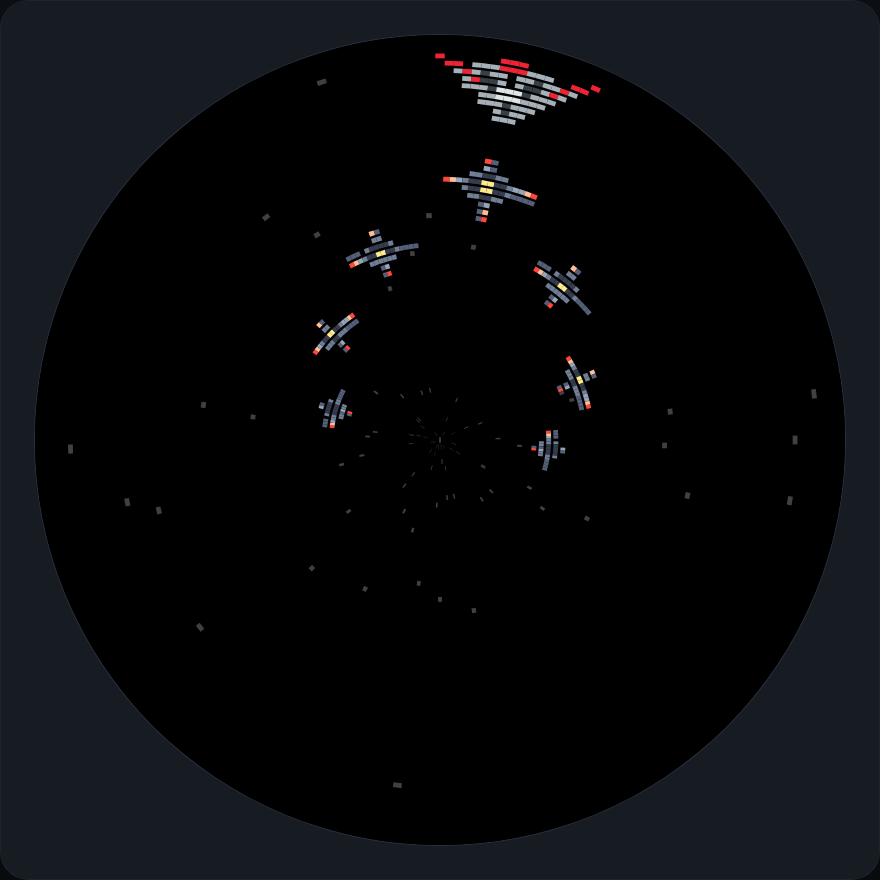
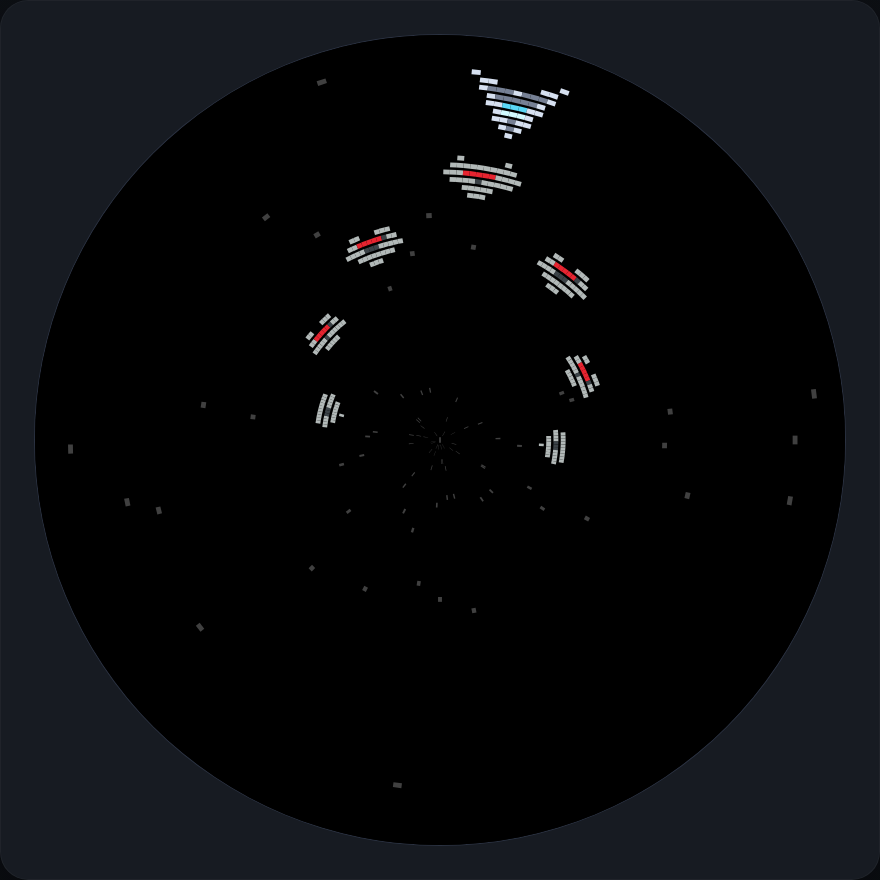
Tutorial: a ship that leans into its turns replaces the drone
The spinning drone was round, and round shapes hide a frame change on the
polar display. Use the game's ship instead, redrawn as an arrowhead in three
frames (level, turned left, turned right). The game picks the frame from the
steering, which is a better example of a frame showing state than cycling them
on a timer; the timing explanation moves to the pools chapter, where the
enemies animate. The enemy goes back to its original saucer art.

Frames example: the three ships, labelled, with the level one in the middle and
gaps between them. make_ship_art.py draws the strip; the strip diagram, tests
and every screenshot that shows the ship follow.

Claude-Session: https://claude.ai/code/session_01Am6eVYV27DcbeE9tF3fxdW

diff --git a/tools/vs2_doc_images/make_ship_art.py b/tools/vs2_doc_images/make_ship_art.py
@@ -1,0 +1,86 @@
+"""Draws games/demos/tutorial_game/images/ship.png: the tutorial game's ship.
+
+    python3 make_ship_art.py
+
+Three 18x18 frames of an arrowhead ship, nose toward the centre of the disc:
+frame 0 flies level, frame 1 is turned toward the sprite's left and frame 2
+toward its right. The game picks the frame from the steering, so the ship leans
+into a turn. Needs Pillow.
+"""
+from math import cos, radians, sin
+from pathlib import Path
+
+from PIL import Image
+
+SIZE = 18
+CENTRE = (SIZE - 1) / 2
+TURN = 24                      # degrees a banked frame is turned
+FRAMES = (0, -TURN, TURN)      # level, toward the left, toward the right
+
+HULL = (118, 128, 148)
+EDGE = (214, 224, 240)
+DARK = (70, 78, 96)
+CANOPY = (90, 215, 245)
+CANOPY_HOT = (210, 250, 255)
+FLAME = (255, 140, 30)
+FLAME_HOT = (255, 225, 120)
+
+# The ship with its nose up, around the origin; y grows downward as in an image.
+HULL_SHAPE = ((0, -7.5), (5.5, 6.5), (0, 3.5), (-5.5, 6.5))
+
+
+def inside(polygon, x, y):
+    """Even-odd point-in-polygon test."""
+    result = False
+    for i, (x1, y1) in enumerate(polygon):
+        x2, y2 = polygon[(i + 1) % len(polygon)]
+        if (y1 > y) != (y2 > y) and x < (x2 - x1) * (y - y1) / (y2 - y1) + x1:
+            result = not result
+    return result
+
+
+def to_local(px, py, angle):
+    """Where image pixel (px, py) lies in the ship's own, unturned frame."""
+    dx, dy = px - CENTRE, py - CENTRE
+    a = radians(angle)
+    return dx * cos(a) + dy * sin(a), -dx * sin(a) + dy * cos(a)
+
+
+def frame(angle):
+    img = Image.new("RGBA", (SIZE, SIZE), (0, 0, 0, 0))
+    px = img.load()
+    solid = set()
+    for y in range(SIZE):
+        for x in range(SIZE):
+            hits = sum(
+                inside(HULL_SHAPE, *to_local(x + sx, y + sy, angle))
+                for sx in (0.17, 0.5, 0.83) for sy in (0.17, 0.5, 0.83))
+            if hits >= 5:
+                solid.add((x, y))
+    for x, y in solid:
+        lx, ly = to_local(x + 0.5, y + 0.5, angle)
+        edge = any((x + dx, y + dy) not in solid
+                   for dx, dy in ((1, 0), (-1, 0), (0, 1), (0, -1)))
+        if (lx / 1.5) ** 2 + ((ly + 0.5) / 2.3) ** 2 <= 1:
+            colour = CANOPY_HOT if ly < 0 else CANOPY
+        elif abs(lx) < 1.6 and ly > 3.6:
+            colour = FLAME_HOT if ly < 5 else FLAME
+        elif edge:
+            colour = EDGE
+        else:
+            colour = HULL if abs(lx) < 3.2 else DARK
+        px[x, y] = colour + (255,)
+    return img
+
+
+def main():
+    strip = Image.new("RGBA", (SIZE * len(FRAMES), SIZE), (0, 0, 0, 0))
+    for index, angle in enumerate(FRAMES):
+        strip.paste(frame(angle), (index * SIZE, 0))
+    out = Path(__file__).resolve().parents[2] / "games/demos/tutorial_game/images/ship.png"
+    strip.save(out)
+    print("wrote", out)
+
+
+if __name__ == "__main__":
+    main()

diff --git a/tools/vs2_doc_images/examples/frames.py b/tools/vs2_doc_images/examples/frames.py
@@ -1,19 +1,22 @@
-"""One sprite per frame of the tutorial game's drone, side by side on the bottom
-of the disc. Increasing x runs right to left there, so the frames are laid out at
-decreasing x. The spacing leaves a gap between them."""
+"""One sprite per frame of the tutorial game's ship (level, turned left, turned
+right), side by side on the bottom of the disc. The level ship is in the middle.
+Increasing x runs right to left there, so the left-turned frame 1 is the one at
+the larger x. The spacing leaves a gap between neighbours."""
 
 import vs2
 
-WIDTH = 16           # columns in one frame of the strip
-SPACING = 22         # columns between neighbours, so there is a gap
+WIDTH = 18           # columns in one frame of the strip
+SPACING = 26         # columns between neighbours, so there is a gap
+LEVEL, LEFT, RIGHT = range(3)
 
 
 class Frames(vs2.Scene):
     def build(self):
         world = self.layer("world", projection=vs2.TUNNEL)
-        for frame in range(4):
-            x = (int(1.5 * SPACING) - WIDTH // 2 - frame * SPACING) % vs2.display.width
-            world.sprite("enemy.png", x=x, y=2, frame=frame)
+        middle = -WIDTH // 2         # centres the level ship on x = 0, the bottom
+        for frame, offset in ((LEVEL, 0), (LEFT, SPACING), (RIGHT, -SPACING)):
+            x = (middle + offset) % vs2.display.width
+            world.sprite("ship.png", x=x, y=2, frame=frame)
 
 
 def main():

diff --git a/tests/test_tutorial_game.py b/tests/test_tutorial_game.py
@@ -37,7 +37,7 @@ from ventilastation.director import configure_runtime, director, reset_runtime, 
 
 # name: (frame width, height, frames, glyphs), as in the game's __images__.yaml
 STRIPS = {
-    "ship.png": (18, 13, 4, None),
+    "ship.png": (18, 18, 3, None),
     "enemy.png": (16, 16, 6, None),
     "trench.png": (16, 16, 8, None),
     "numerals.png": (4, 5, 12, "0123456789 *"),
@@ -116,6 +116,19 @@ class TutorialGameTests(unittest.TestCase):
         game.ship.x = 0
         self.step(director.JOY_LEFT)
         self.assertEqual(game.ship.x, 255)
+
+    def test_the_ship_leans_into_a_turn(self):
+        from games.demos.tutorial_game.code.tutorial_game import (
+            LEVEL, TURN_LEFT, TURN_RIGHT)
+
+        game = self.start_game()
+        self.assertEqual(game.ship.frame, LEVEL)
+        self.step(director.JOY_LEFT)
+        self.assertEqual(game.ship.frame, TURN_LEFT)
+        self.step(director.JOY_RIGHT)
+        self.assertEqual(game.ship.frame, TURN_RIGHT)
+        self.step(0)
+        self.assertEqual(game.ship.frame, LEVEL)
 
     def test_the_trench_wall_scrolls_and_wraps_seamlessly(self):
         game = self.start_game()

diff --git a/games/demos/tutorial_game/code/tutorial_game.py b/games/demos/tutorial_game/code/tutorial_game.py
@@ -10,6 +10,7 @@ from urandom import randrange
 import vs2
 from vs2.controls import *
 
+LEVEL, TURN_LEFT, TURN_RIGHT = range(3)      # the frames of ship.png
 ENEMY_SPEED = 0.5    # depth units per tick, toward the ship
 ENEMY_START = 160    # depth at which enemies appear
 SPAWN_MS = 900       # time between enemies
@@ -77,9 +78,12 @@ class Game(vs2.Scene):
 
         if joy1.held(LEFT):
             self.ship.x = (self.ship.x - 1) % vs2.display.width
-        if joy1.held(RIGHT):
+            self.ship.frame = TURN_LEFT
+        elif joy1.held(RIGHT):
             self.ship.x = (self.ship.x + 1) % vs2.display.width
-        self.ship.frame = (self.ticks // 4) % self.ship.image.frames
+            self.ship.frame = TURN_RIGHT
+        else:
+            self.ship.frame = LEVEL
 
         # Scroll the wall toward the ship. After one whole pattern the picture
         # is the same again, so the view can wrap without rewriting any cells.

diff --git a/docs/vs2/tutorial/sprites.md b/docs/vs2/tutorial/sprites.md
@@ -21,17 +21,17 @@ def update(self):
     self.ship.flip_x = self.moving_left
 ```
 
-A sprite shows one {term}`frame` of its strip at a time. The game's enemy is a
-drone that spins, and each of its six frames turns its arms a little further.
-Here are four sprites showing frames 0 to 3 of `enemy.png`, set side by side at
-the bottom of the disc with a gap between them:
+A sprite shows one {term}`frame` of its strip at a time. The game's ship has
+three: one flying level and one turned to each side. Here are three sprites
+showing frames 0 to 2 of `ship.png`, set side by side at the bottom of the disc
+with a gap between them (frame 0, the level ship, is in the middle):
 
 ```{figure} ../images/sprites-frames.png
-:alt: Four drones along the bottom of the disc, each with its four arms turned a little further than the one before
+:alt: Three ships along the bottom of the disc, labelled with their frame numbers: frame 0 level in the middle, frame 1 turned to the left and frame 2 turned to the right
 :width: 60%
 :align: center
 
-`frame = 0, 1, 2, 3`: one strip, four turns of the same drone. The outer two lean
+One strip, three poses of the same ship. The outer two lean a little more
 because they sit further round the curve of the disc.
 ```
 
@@ -46,7 +46,7 @@ enemy.show()                 # now visible, same frame
 An out-of-range frame raises at the assignment rather than rendering garbage:
 
 ```text
-FrameError: ship.png has 4 frames; frame must be 0..3
+FrameError: ship.png has 3 frames; frame must be 0..2
 ```
 
 ## Frame counts and sizes
@@ -92,26 +92,26 @@ at column 254. Y does not wrap, because the disc has an inside and an outside.
 
 ## In the game
 
-Let the ship's engine glow flicker by cycling through its four frames. `update()`
-runs once per rotation, so count the calls and change frame every few of them
-instead of on every one:
+Make the ship lean into its turns. A frame can show *state*, here which way the
+ship is steering, so choose it from the buttons:
 
 ```python
-def build(self):
-    self.world = self.layer("world", projection=vs2.TUNNEL)
-    self.ship = self.world.sprite("ship.png", x=128, y=0)
-    self.ticks = 0                              # counts update() calls
+LEVEL, TURN_LEFT, TURN_RIGHT = range(3)      # the frames of ship.png
 
 def update(self):
-    self.ticks += 1
-    # ... steering, as before ...
-    self.ship.frame = (self.ticks // 4) % self.ship.image.frames
+    if joy1.held(LEFT):
+        self.ship.x = (self.ship.x - 1) % vs2.display.width
+        self.ship.frame = TURN_LEFT
+    elif joy1.held(RIGHT):
+        self.ship.x = (self.ship.x + 1) % vs2.display.width
+        self.ship.frame = TURN_RIGHT
+    else:
+        self.ship.frame = LEVEL
 ```
 
-`self.ticks // 4` stays the same for four ticks in a row, so the frame changes
-four times more slowly than `update()` runs. `self.ship.image.frames` supplies
-the number of frames, so the line keeps working if you give the ship more frames
-later.
+The names for the frames make the code say what it means, and they are the same
+three numbers the strip is laid out in. Setting a frame is a single write, so
+doing it every tick costs nothing.
 
 Next: [sprite pools](pools.md), for everything you need many of. To share one
 image handle between several sprites, see [going further](../going-further.md).

diff --git a/docs/vs2/tutorial/pools.md b/docs/vs2/tutorial/pools.md
@@ -122,13 +122,15 @@ def build(self):
     self.enemies = self.world.sprite_pool("enemy.png", count=16)
     for i in range(5):
         self.enemies.spawn(x=i * 51, y=ENEMY_START)
+    self.ticks = 0                              # counts update() calls
 ```
 
 Then `update()` moves them:
 
 ```python
 def update(self):
-    # ... steering and the ship's animation, as before ...
+    self.ticks += 1
+    # ... steering, as before ...
     self.move_enemies()
 
 def move_enemies(self):
@@ -140,7 +142,11 @@ def move_enemies(self):
 ```
 
 Enemies move *toward* the ship by counting `y` **down**, because the ship is at
-the rim. Each enemy is the spinning drone from chapter 3, and `enemy.frame` turns it. For
+the rim. `update()` runs once per rotation, so to animate at a pace you can see,
+count the calls and change frame every few of them instead of on every one:
+`self.ticks // 6` stays the same for six ticks in a row, so the enemy changes frame
+six times more slowly than `update()` runs. `enemy.image.frames` supplies the
+number of frames, so the line keeps working if you add one to the PNG. Each enemy cycles through the six frames of `enemy.png`. For
 now an enemy that reaches the ship simply flies through it; chapter 6 makes that
 end the game, and chapter 5 scores the ones you avoid.
 

diff --git a/docs/vs2/tutorial/first-game.md b/docs/vs2/tutorial/first-game.md
@@ -41,7 +41,7 @@ they become sprite strips:
 palettegroups:
   main:
     - strip: ship.png
-      frames: 4
+      frames: 3
     - strip: enemy.png
       frames: 6
     - strip: trench.png
@@ -59,15 +59,15 @@ chapter only uses `ship.png`; the other strips appear in the chapters that follo
 and the `glyphs:` line is explained in chapter 5. Every strip needs a `frames:`
 entry, because the file does not say how many images a PNG holds.
 
-A {term}`strip` is a horizontal filmstrip of equally sized frames — a 4-frame
-animation is one PNG four times as wide as one frame:
+A {term}`strip` is a horizontal filmstrip of equally sized frames — a 3-frame
+strip is one PNG three times as wide as one frame:
 
 ```{figure} ../images/strip-ship.png
-:alt: The ship.png strip: four 18 by 13 pixel frames side by side
+:alt: The ship.png strip: three 18 by 18 pixel frames side by side, a level ship and the ship turned to each side
 :width: 85%
 :align: center
 
-`ship.png` is 72 pixels wide and holds four frames, so its entry says `frames: 4`.
+`ship.png` is 54 pixels wide and holds three frames, so its entry says `frames: 3`.
 ```
 
 A {term}`palette group` is a set of images that share 256 colours; put images

diff --git a/tools/vs2_doc_images/README.md b/tools/vs2_doc_images/README.md
@@ -37,11 +37,11 @@ This table comes from `node capture.mjs --list`.
 
 Notes on specific images:
 
-- **`sprites-frames.png`** shows frames 0 to 3 of the game's `enemy.png`. The
-  sprites are spaced 22 columns apart (each is 16 wide) so none overlap; retake it
-  and check that after changing the spacing or the art. The drone art is drawn by
-  `make_enemy_art.py` (needs Pillow), which writes
-  `games/demos/tutorial_game/images/enemy.png`.
+- **`sprites-frames.png`** shows the three frames of the game's `ship.png`. The
+  sprites are spaced 26 columns apart (each is 18 wide) so none overlap, with frame 0 in the middle; retake it
+  and check that after changing the spacing or the art. The ship art is drawn by
+  `make_ship_art.py` (needs Pillow), which writes
+  `games/demos/tutorial_game/images/ship.png`.
 - **`game-play.png`** is the real game after pressing A on the title, and the
   enemies appear at random places. Run `node capture.mjs game` again until the
   picture shows several enemies at different depths and the ship still alive (the

diff --git a/docs/vs2/tutorial/tilemaps-and-text.md b/docs/vs2/tutorial/tilemaps-and-text.md
@@ -267,7 +267,6 @@ def build(self):
     self.score_label = self.hud.label("numerals.png", columns=5, x=246, y=1)
 
     self.score = 0
-    self.ticks = 0
     self.show_score()
 
 def draw_trench(self):
@@ -279,7 +278,7 @@ def show_score(self):
     self.score_label.set_number(self.score, width=5, pad="0")
 ```
 
-Scroll the wall toward the ship in `update()`, right after the ship's animation:
+Scroll the wall toward the ship in `update()`, right after the steering:
 
 ```python
     # Scroll the wall toward the ship. After one whole pattern the picture
